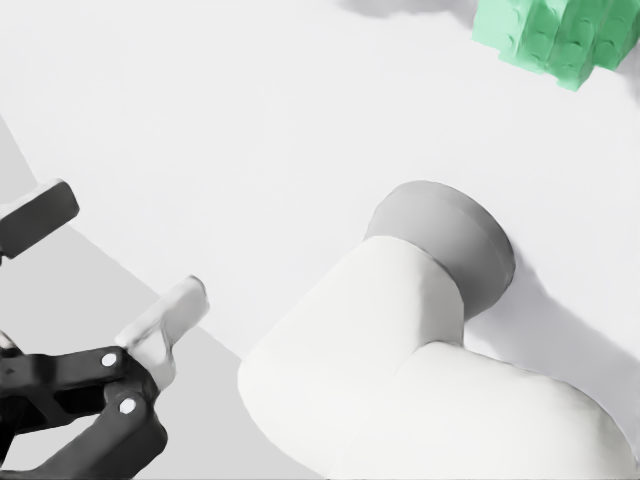
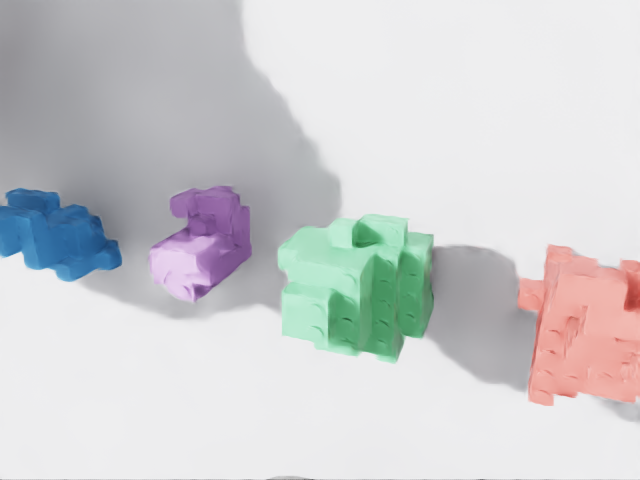
fix: harden dual-arm scene validation

diff --git a/06_interactive_scene/scripts/scene_cameras.py b/06_interactive_scene/scripts/scene_cameras.py
@@ -85,9 +85,16 @@ def validate_wrist_parents(
 ) -> None:
     for robot_name in ("left", "right"):
         camera_name = f"{robot_name}_wrist"
-        if specs[camera_name].parent != robots[robot_name].flange_path:
+        spec = specs[camera_name]
+        prim_parent = spec.prim_path.rsplit("/", 1)[0]
+        if prim_parent != spec.parent:
             raise ValueError(
-                f"{camera_name} camera parent {specs[camera_name].parent} does not match "
+                f"{camera_name} camera prim path {spec.prim_path} is not nested under "
+                f"declared parent {spec.parent}"
+            )
+        if spec.parent != robots[robot_name].flange_path:
+            raise ValueError(
+                f"{camera_name} camera parent {spec.parent} does not match "
                 f"{robot_name} robot flange {robots[robot_name].flange_path}"
             )
 
@@ -294,6 +301,7 @@ def save_portable_stage(stage: Any, output: Path) -> None:
     text = re.sub(r"@([^@\r\n]+)@", relative_asset, text)
     if str(repo_root).lower() in text.lower() or "D:/i45" in text or "D:\\i45" in text:
         raise ValueError("portable stage still contains a machine-specific absolute path")
+    text = text.rstrip() + "\n"
     temporary.write_text(text, encoding="utf-8", newline="\n")
     reopened = Usd.Stage.Open(str(temporary))
     if reopened is None or not reopened.GetPrimAtPath("/World").IsValid():

diff --git a/06_interactive_scene/scripts/scene_assets.py b/06_interactive_scene/scripts/scene_assets.py
@@ -37,18 +37,24 @@ class FragmentHandle:
 
 def expected_stage_manifest(config: SceneConfig) -> StageManifest:
     cameras = config.data["cameras"]
+    robot_paths = tuple(
+        str(config.robot_spec(name)["prim_path"]) for name in config.robot_names
+    )
+    camera_paths = tuple(
+        str(cameras[name]["prim_path"])
+        for name in ("agent", "left_wrist", "right_wrist")
+    )
+    if len(set(robot_paths)) != len(robot_paths):
+        raise ValueError("robot root paths must be unique")
+    if len(set(camera_paths)) != len(camera_paths):
+        raise ValueError("camera paths must be unique")
     return StageManifest(
         floor_path="/World/Environment/Floor",
         table_path="/World/Environment/Table",
         plate_path="/World/Environment/Plate",
-        robot_paths=tuple(
-            str(config.robot_spec(name)["prim_path"]) for name in config.robot_names
-        ),
+        robot_paths=robot_paths,
         fragment_paths=tuple(f"/World/Fragments/{name}" for name in config.fragment_names),
-        camera_paths=tuple(
-            str(cameras[name]["prim_path"])
-            for name in ("agent", "left_wrist", "right_wrist")
-        ),
+        camera_paths=camera_paths,
     )
 
 

diff --git a/06_interactive_scene/tests/test_camera_config.py b/06_interactive_scene/tests/test_camera_config.py
@@ -1,5 +1,6 @@
 import inspect
 import sys
+from dataclasses import replace
 from pathlib import Path
 
 import pytest
@@ -80,8 +81,28 @@ def test_each_wrist_parent_matches_named_flange(config):
         validate_wrist_parents(specs, robots)
 
 
+def test_wrist_prim_path_must_be_nested_under_declared_parent(config):
+    specs = dict(camera_specs(config))
+    specs["left_wrist"] = replace(
+        specs["left_wrist"],
+        prim_path="/World/Robots/Right/flange/IncorrectLeftCamera",
+    )
+    robots = {
+        name: type("Robot", (), {"flange_path": f"/World/Robots/{name.title()}/flange"})()
+        for name in config.robot_names
+    }
+
+    with pytest.raises(ValueError, match="prim path"):
+        validate_wrist_parents(specs, robots)
+
+
 def test_wrist_cameras_clear_the_gripper_mount(config):
     for name in ("left_wrist", "right_wrist"):
         position = camera_specs(config)[name].position
         assert position[2] >= 0.16
         assert abs(position[1]) >= 0.12
+
+
+def test_wrist_camera_optical_rays_reach_forward_workspace(config):
+    for name in ("left_wrist", "right_wrist"):
+        assert camera_specs(config)[name].look_vector[0] >= 0.35

diff --git a/06_interactive_scene/tests/test_stage_manifest.py b/06_interactive_scene/tests/test_stage_manifest.py
@@ -1,6 +1,8 @@
 import sys
 from pathlib import Path
 
+import pytest
+
 
 SCENE_ROOT = Path(__file__).resolve().parents[1]
 SCRIPTS = SCENE_ROOT / "scripts"
@@ -32,3 +34,19 @@ def test_manifest_requires_two_robot_roots_and_three_cameras():
         "/World/Robots/Left/flange/WristCamera",
         "/World/Robots/Right/flange/WristCamera",
     )
+
+
+def test_manifest_rejects_duplicate_robot_roots():
+    config = SceneConfig.load(SCENE_ROOT / "config" / "scene.json")
+    config.data["robots"]["right"]["prim_path"] = config.data["robots"]["left"]["prim_path"]
+
+    with pytest.raises(ValueError, match="robot root paths must be unique"):
+        expected_stage_manifest(config)
+
+
+def test_manifest_rejects_duplicate_camera_paths():
+    config = SceneConfig.load(SCENE_ROOT / "config" / "scene.json")
+    config.data["cameras"]["right_wrist"]["prim_path"] = config.data["cameras"]["left_wrist"]["prim_path"]
+
+    with pytest.raises(ValueError, match="camera paths must be unique"):
+        expected_stage_manifest(config)
